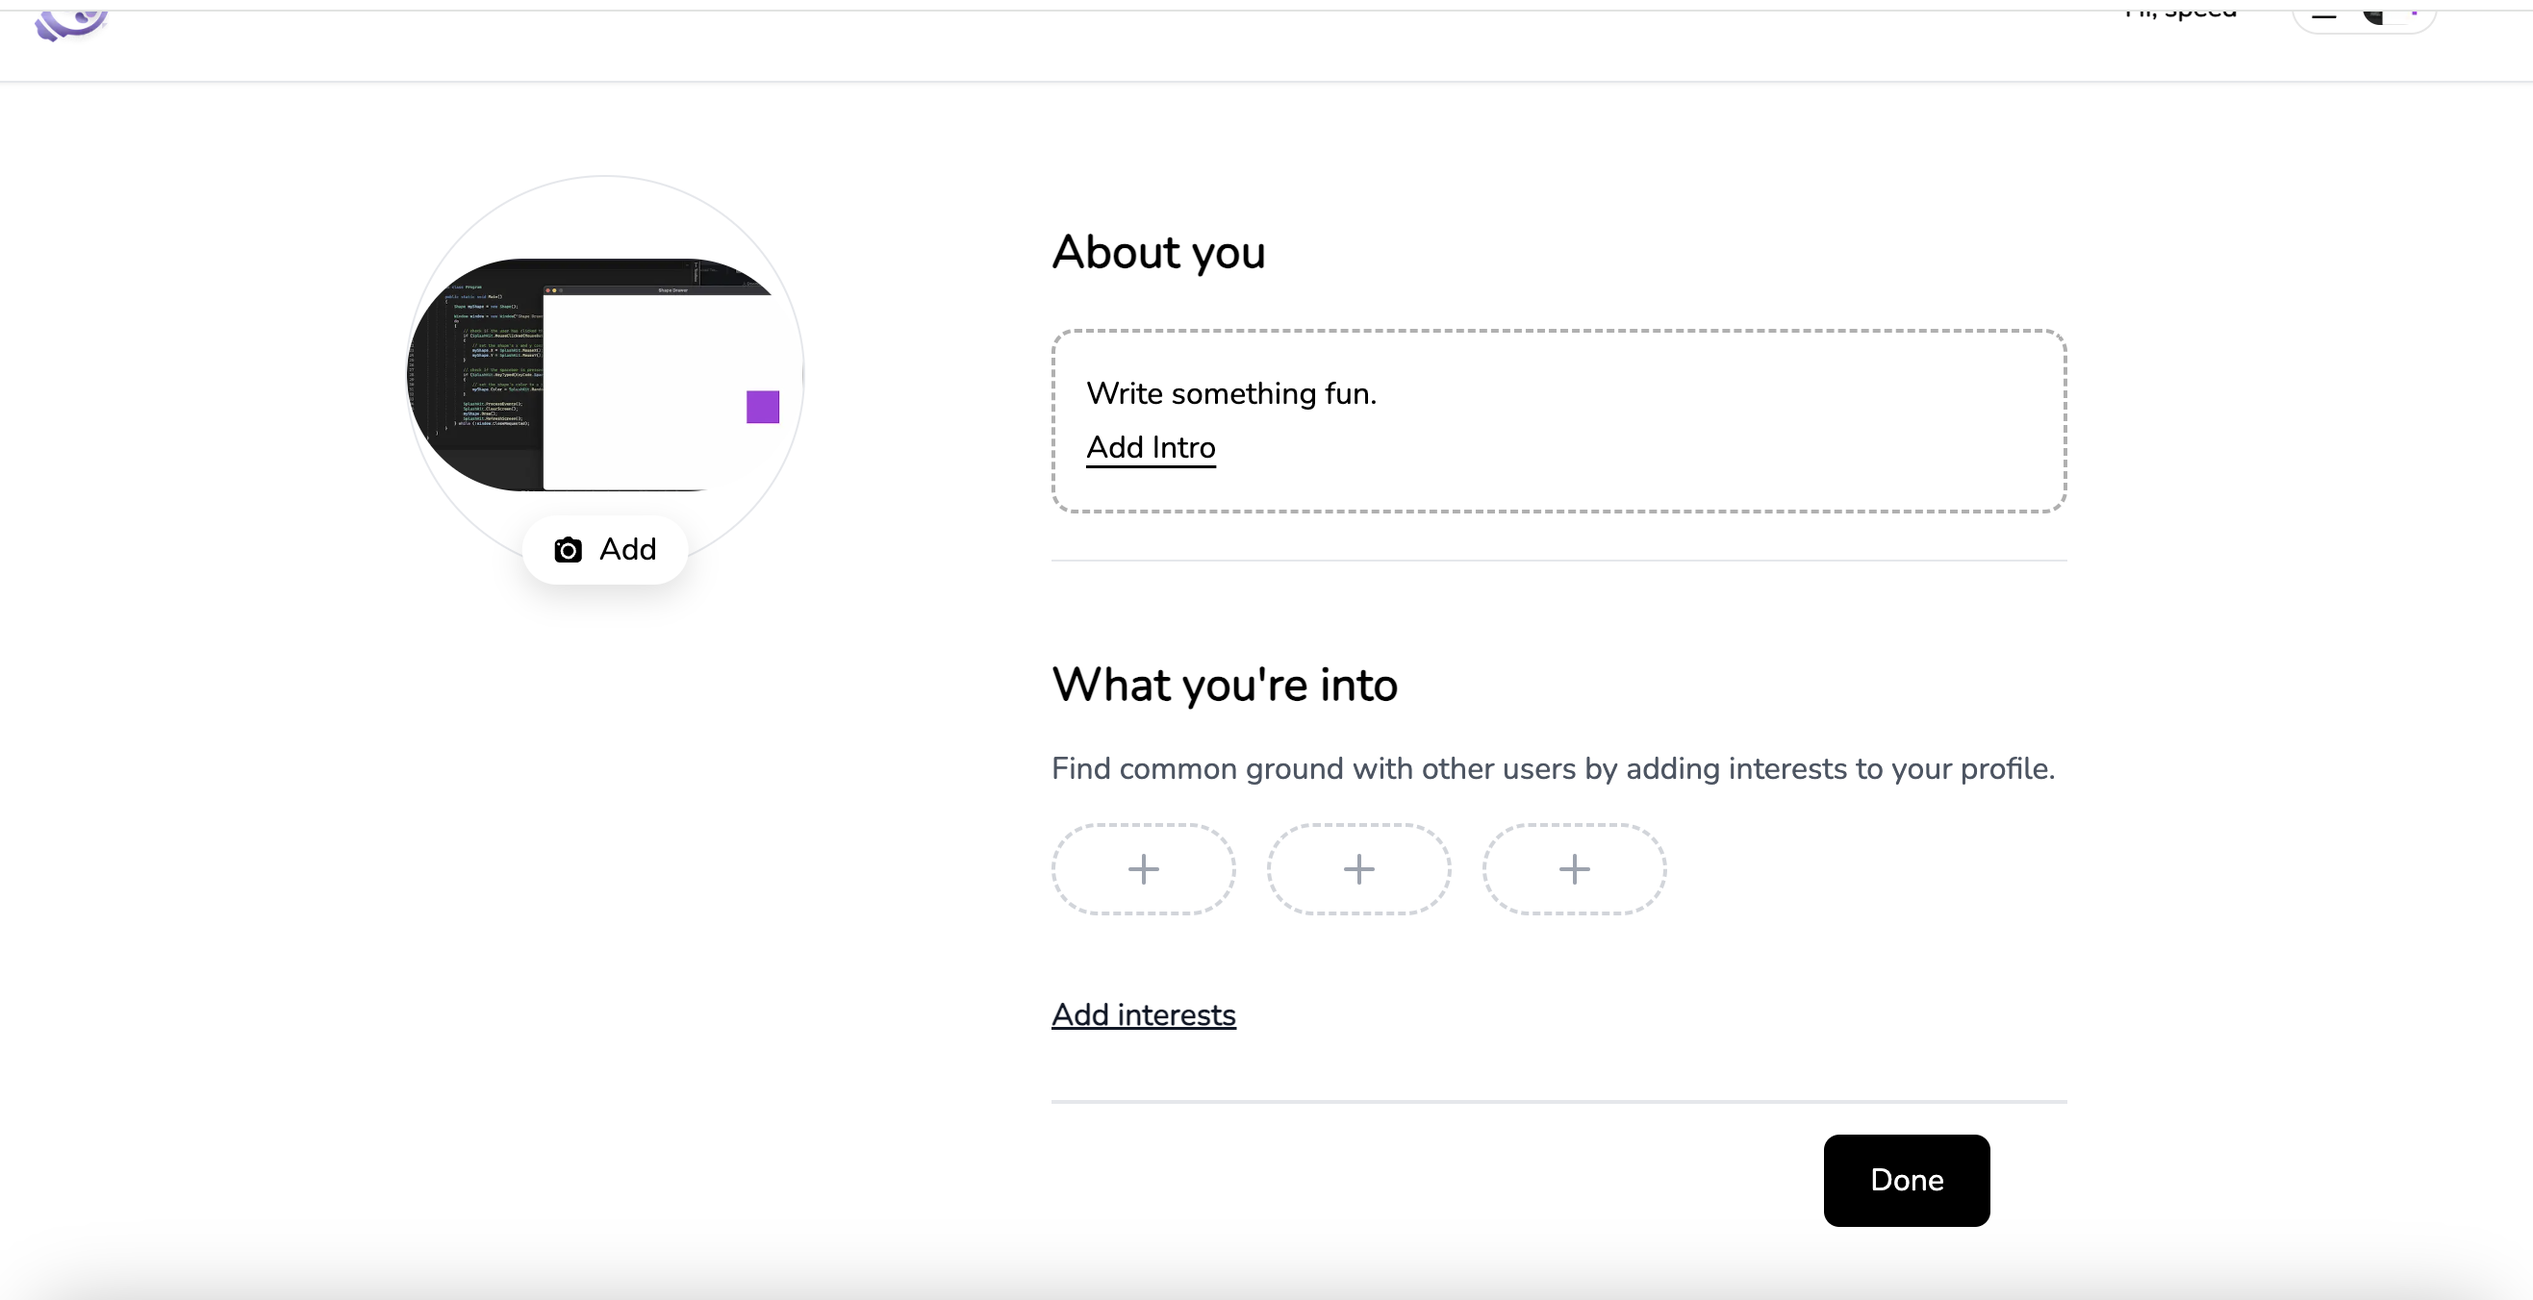
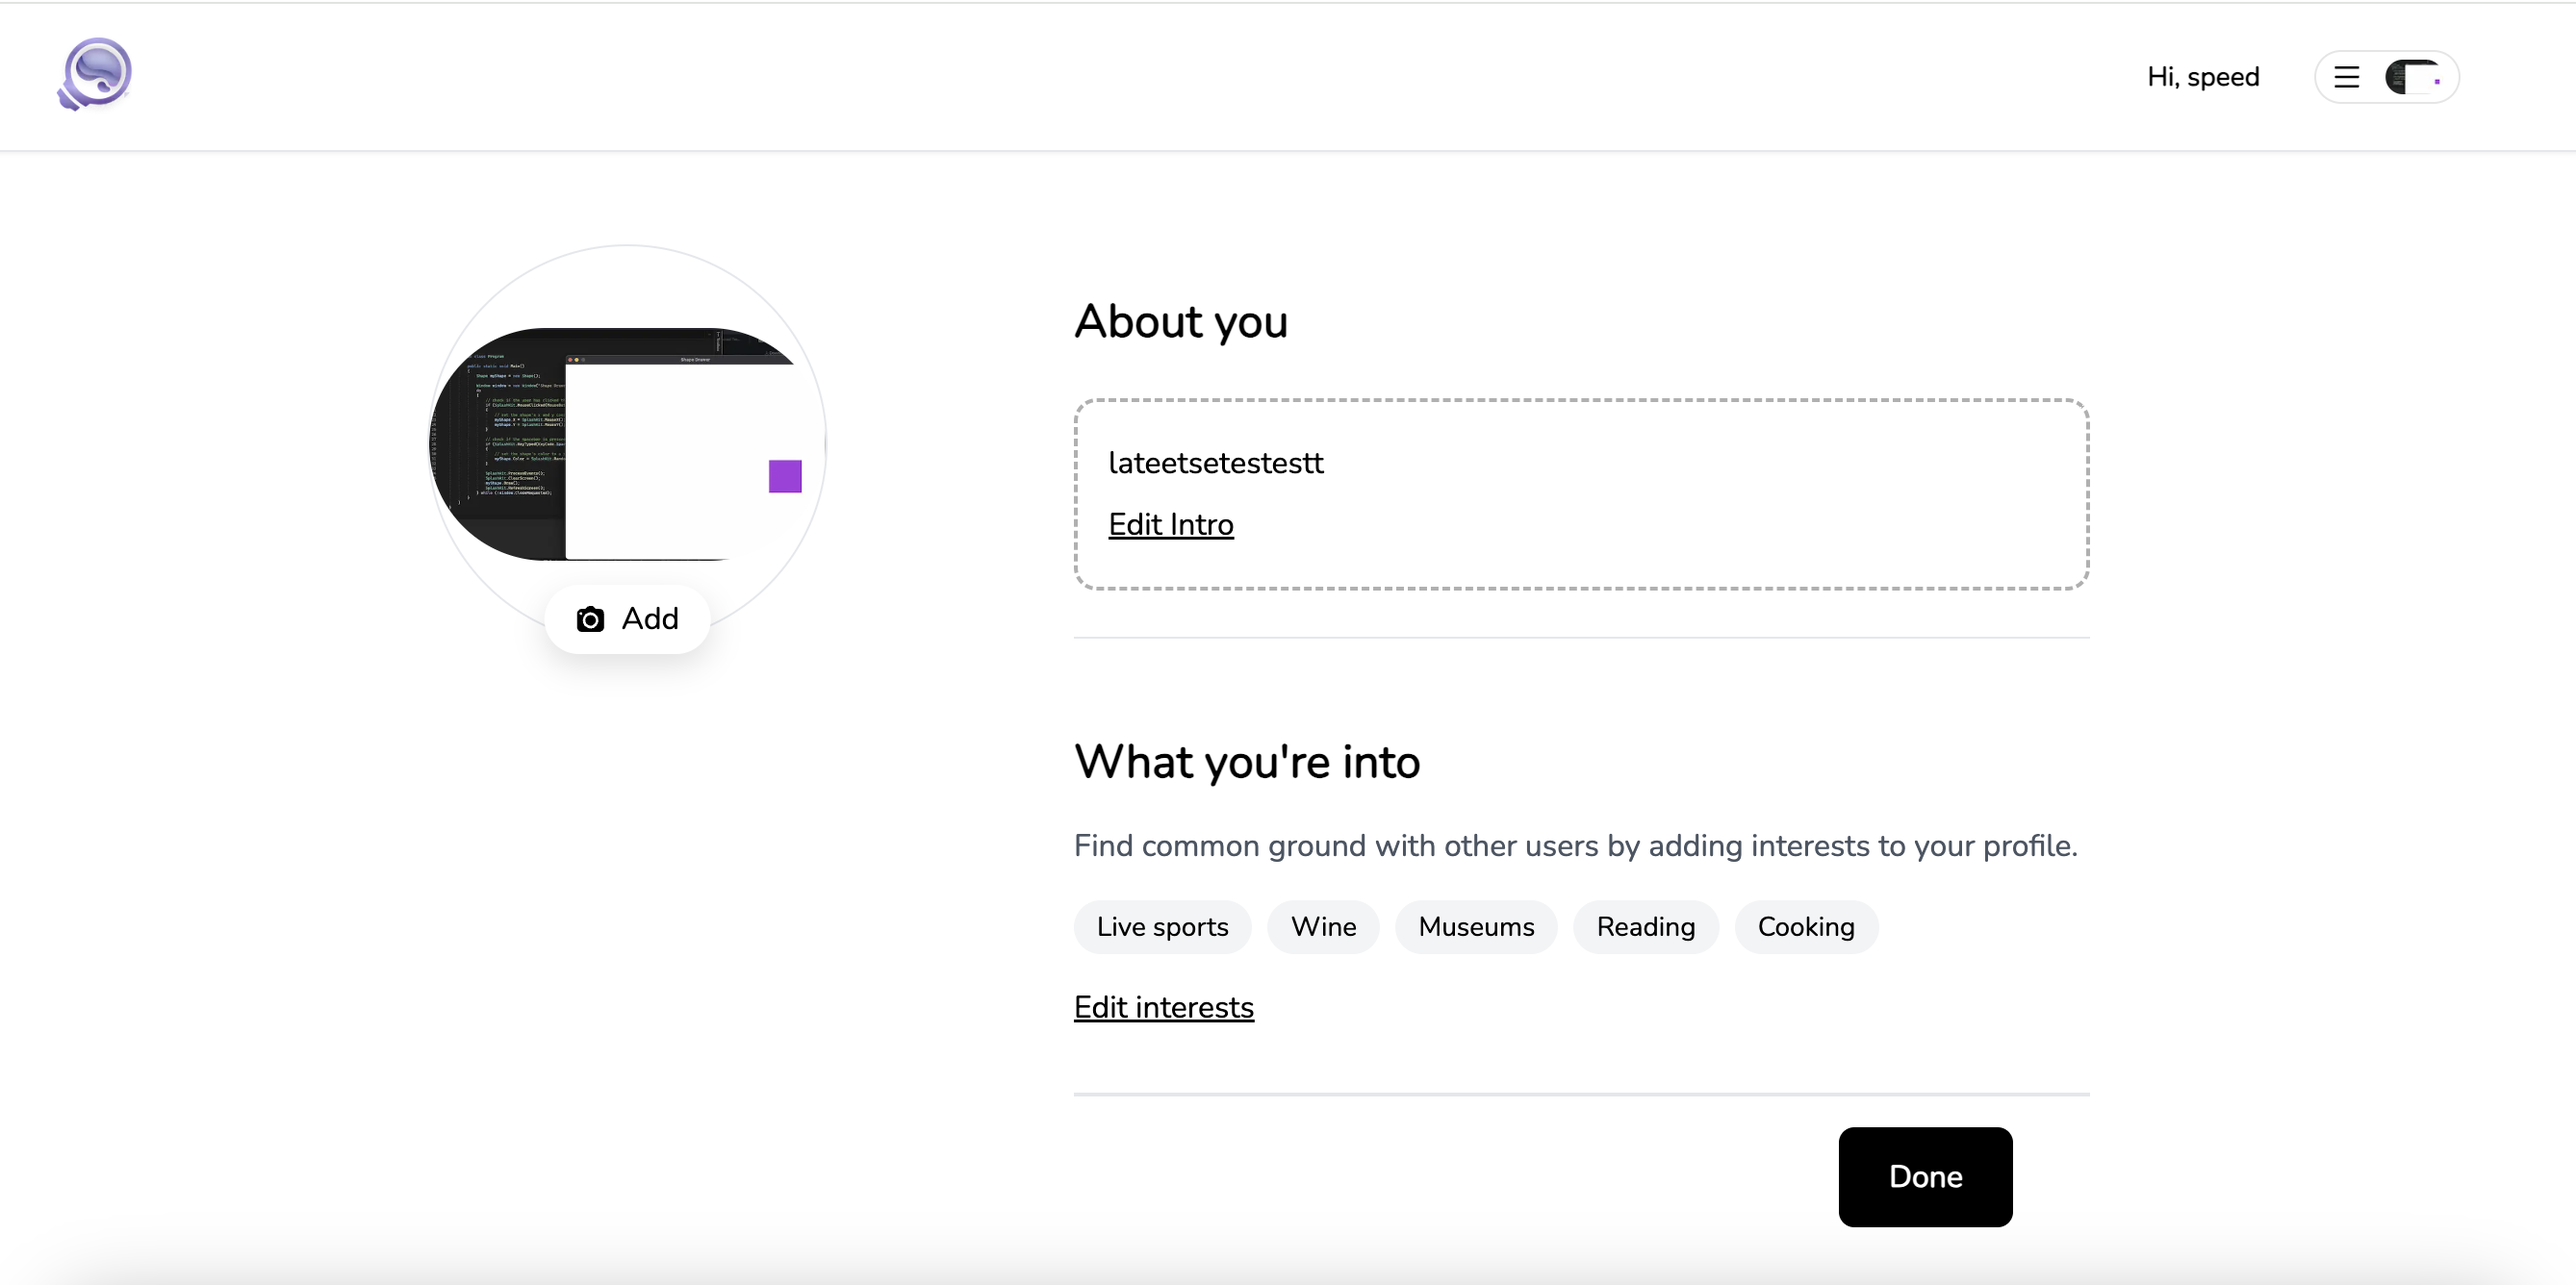
donee

diff --git a/src/pages/users/[id]/index.tsx b/src/pages/users/[id]/index.tsx
@@ -7,21 +7,28 @@ import { PlusIcon } from "lucide-react";
 import AuthCheck from "@/components/AuthCheck";
 import Button from "@/components/Button/Button";
 import useSelectInterestModal from "@/hooks/useSelectInterestModal";
-import { useMutation } from "@/hooks/useMutation";
-import { apiClient } from "@/libs/utils/api-client";
 import { useUser } from "@/hooks/useUser";
-import update from "@/pages/api/profile/update";
 
 export default function EditProfile() {
   const interestModal = useSelectInterestModal();
   const { updateUser, user } = useUser();
-  const [isLoading,setIsLoading] = useState(false);
+  const [isLoading, setIsLoading] = useState(false);
+  const [selectedInterests, setSelectedInterests] = useState<string[]>([]);
   const currentUser = user!;
   const [isFixed, setIsFixed] = useState(true);
   const router = useRouter();
   const { id } = router.query;
-  const [intro, setIntro] = useState(currentUser.bio || "");
+  const [intro, setIntro] = useState("");
   const [isEditing, setIsEditing] = useState(false);
+
+  useEffect(() => {
+    if (currentUser?.bio) {
+      setIntro(currentUser.bio);
+    }
+    if (currentUser?.interests) {
+      setSelectedInterests(currentUser.interests);
+    }
+  }, [currentUser?.bio, currentUser?.interests]);
 
   const handleIntroChange = (e: React.ChangeEvent<HTMLTextAreaElement>) => {
     setIntro(e.target.value);
@@ -29,19 +36,21 @@ export default function EditProfile() {
 
   const handleSaveIntro = async () => {
     try {
-      setIsLoading(true)
+      setIsLoading(true);
       await updateUser({
         bio: intro,
-      });      
+      });
 
       setIsEditing(false);
-      setIsLoading(false)
-
+      setIsLoading(false);
     } catch (error) {
       console.error("Error updating bio:", error);
-      setIsLoading(false)
-
+      setIsLoading(false);
     }
+  };
+
+  const handleEditInterests = () => {
+    interestModal.onOpen();
   };
 
   return (
@@ -59,7 +68,6 @@ export default function EditProfile() {
           <div className="md:ml-12 w-full mt-6 px-7 sm:px-0">
             <section>
               <h1 className="text-2xl font-bold">About you</h1>
-              {intro && <h1>bio{intro}</h1>}
 
               <div className="my-6 px-4 py-5 border-dashed border-2 border-grey rounded-xl overflow-hidden">
                 {!isEditing ? (
@@ -67,7 +75,7 @@ export default function EditProfile() {
                     {intro ? (
                       <>
                         <p>{intro}</p>
-                        <button 
+                        <button
                           onClick={() => setIsEditing(true)}
                           className="mt-2 text-black underline focus:outline-none"
                         >
@@ -77,7 +85,7 @@ export default function EditProfile() {
                     ) : (
                       <>
                         <p>Write something fun.</p>
-                        <button 
+                        <button
                           onClick={() => setIsEditing(true)}
                           className="mt-2 text-black underline focus:outline-none"
                         >
@@ -95,7 +103,7 @@ export default function EditProfile() {
                       className="w-full min-h-[100px] p-2 border-2 border-dashed border-gray-300 rounded-md resize-none focus:outline-none focus:border-black-500 transition-colors duration-200"
                     />
                     <Button
-                    disabled={isLoading}
+                      disabled={isLoading}
                       label="Save Intro"
                       onClick={handleSaveIntro}
                       className="mt-2 px-4 py-2 bg-black w-auto border-none text-white rounded-md focus:outline-none focus:ring-2 focus:ring-black-500 focus:ring-opacity-50 transition-colors duration-200"
@@ -110,20 +118,29 @@ export default function EditProfile() {
                 Find common ground with other users by adding interests to your profile.
               </p>
 
-              <div className="space-y-2">
-                <div className="flex space-x-4">
-                  {[1, 2, 3].map((_, index) => (
-                    <button
-                      key={index}
-                      onClick={()=>{interestModal.onOpen()}}
-                      className="w-24 h-12 mb-8 rounded-full border-2 border-dashed border-gray-300 flex items-center justify-center"
-                    >
-                      <PlusIcon className="h-6 w-6 text-gray-400" />
-                      <span className="sr-only">Add interest</span>
-                    </button>
-                  ))}
-                </div>
-              
+              <div className="space-y-4">
+                {selectedInterests.length > 0 ? (
+                  <div className="flex flex-wrap gap-2">
+                    {selectedInterests.map((interest, index) => (
+                      <span
+                        key={index}
+                        className="px-3 py-1 bg-gray-100 rounded-full text-sm"
+                      >
+                        {interest}
+                      </span>
+                    ))}
+                  </div>
+                ) : (
+                  <p className="text-gray-600">
+                    Add interests to find common ground with other users.
+                  </p>
+                )}
+                <button
+                  onClick={handleEditInterests}
+                  className="text-black underline focus:outline-none"
+                >
+                  Edit interests
+                </button>
               </div>
             </section>
 
@@ -133,8 +150,11 @@ export default function EditProfile() {
               }`}
             >
               <div className="max-w-6xl text-right m-auto">
-                <Button label="Done" onClick={()=>{}} className="px-6 py-3 border-black w-auto bg-black text-white rounded-lg ml-auto"/>
-                  
+                <Button
+                  label="Done"
+                  onClick={() => {}}
+                  className="px-6 py-3 border-black w-auto bg-black text-white rounded-lg ml-auto"
+                />
               </div>
             </div>
           </div>

diff --git a/src/components/Modal/SelectInterestModal.tsx b/src/components/Modal/SelectInterestModal.tsx
@@ -1,11 +1,9 @@
 import Modal from "./Modal";
 import { FieldValues, SubmitHandler, useForm } from "react-hook-form";
-import { useMutation } from "@/hooks/useMutation";
-import { apiClient } from "@/libs/utils/api-client";
-import useSelectInterestModal from "@/hooks/useSelectInterestModal";
-import { useState, useCallback, useMemo } from "react";
+import { useState, useCallback, useMemo, useEffect } from "react";
 import Button from "../Button/Button";
 import { useUser } from "@/hooks/useUser";
+import useSelectInterestModal from "@/hooks/useSelectInterestModal";
 
 const interests = [
   { icon: '🍝', label: 'Food' },
@@ -28,82 +26,97 @@ const interests = [
 
 export default function SelectInterestModal() {
   const SelectInterestModal = useSelectInterestModal();
+  const [isLoading, setIsLoading] = useState(false);
   const [selectedInterests, setSelectedInterests] = useState<string[]>([]);
   const { updateUser, user } = useUser();
 
-  const { trigger, isMutating } = useMutation('/profile/', async (url, payload) => {
-    return await apiClient.post(url, payload);
-  });
+  // Load user interests when component mounts
+  useEffect(() => {
+    if (user?.interests) {
+    setSelectedInterests(user.interests)
+    }
+  }, [user?.interests]);
 
-  // Memoize the toggleInterest function to avoid unnecessary re-renders
   const toggleInterest = useCallback((label: string) => {
-    setSelectedInterests(prev =>
-      prev.includes(label)
-        ? prev.filter(i => i !== label)
-        : [...prev, label]
+    setSelectedInterests((prev) =>
+      prev.includes(label) ? prev.filter((i) => i !== label) : [...prev, label]
     );
   }, []);
 
-  const { handleSubmit, formState: { errors } } = useForm<FieldValues>({
-    defaultValues: {},
+  // Initialize react-hook-form
+  const { handleSubmit } = useForm<FieldValues>({
+    defaultValues: {
+      interests: [],
+    },
   });
 
-  const onSubmit: SubmitHandler<FieldValues> = (data) => {
-    // Handle form submission logic
+  // Handle form submission
+  const onSubmit: SubmitHandler<FieldValues> = async () => {
+    setIsLoading(true);
+    try {
+      await updateUser({ interests: selectedInterests });
+      setIsLoading(false);
+      SelectInterestModal.onClose(); // Close modal on success
+    } catch (error) {
+      console.error("Failed to update interests", error);
+      setIsLoading(false);
+    }
   };
 
-  const bodyContent = useMemo(() => (
-    <div className="flex flex-col gap-4">
-      <div className="text-left">
-        <div className="font-light text-neutral-500 mt-3">
-          Pick some interests you enjoy that you want to show on your profile.
+  const bodyContent = useMemo(
+    () => (
+      <div className="flex flex-col gap-4">
+        <div className="text-left">
+          <div className="font-light text-neutral-500 mt-3">
+            Pick some interests you enjoy that you want to show on your profile.
+          </div>
+        </div>
+        <div className="grid grid-cols-2 md:grid-cols-3 gap-3 mb-4">
+          {interests.map(({ icon, label }) => (
+            <button
+              key={label}
+              onClick={() => toggleInterest(label)}
+              className={`flex items-center px-3 py-2 rounded-full border ${
+                selectedInterests.includes(label)
+                  ? "bg-blue-100 border-blue-500"
+                  : "border-gray-300 hover:border-blue-500"
+              }`}
+            >
+              <span className="mr-2">{icon}</span>
+              {label}
+            </button>
+          ))}
         </div>
       </div>
+    ),
+    [selectedInterests, toggleInterest]
+  );
 
-      <div className="grid grid-cols-3 gap-3 mb-4">
-        {interests.map(({ icon, label }) => (
-          <button
-            key={label}
-            onClick={() => toggleInterest(label)}
-            className={`flex items-center px-3 py-2 rounded-full border ${
-              selectedInterests.includes(label)
-                ? 'bg-blue-100 border-blue-500'
-                : 'border-gray-300 hover:border-blue-500'
-            }`}
-          >
-            <span className="mr-2">{icon}</span>
-            {label}
-          </button>
-        ))}
+  const footerContent = useMemo(
+    () => (
+      <div className="flex flex-col gap-4">
+        <div className="flex justify-between items-center">
+          <p className="text-gray-600">{`${selectedInterests.length}/${interests.length} selected`}</p>
+          <Button
+            label="Continue"
+            onClick={handleSubmit(onSubmit)}
+            className="w-auto px-4"
+            disabled={isLoading}
+          />
+        </div>
       </div>
-    </div>
-  ), [selectedInterests, toggleInterest]);
-
-  const footerContent = useMemo(() => (
-    <div className="flex flex-col gap-4">
-      <div className="flex justify-between items-center">
-        <p className="text-gray-600">
-          {`${selectedInterests.length}/${interests.length} selected`}
-        </p>
-        <Button
-        label="Continue"
-          onClick={handleSubmit(onSubmit)}
-          className="w-auto px-4"
-          disabled={isMutating}
-        />
-        
-      </div>
-    </div>
-  ), [selectedInterests, handleSubmit, onSubmit, isMutating]);
+    ),
+    [selectedInterests, handleSubmit, onSubmit, isLoading]
+  );
 
   return (
     <Modal
-      disabled={isMutating}
+      disabled={isLoading}
       isOpen={SelectInterestModal.isOpen}
       title="What You're Into"
       actionLabel="Continue"
       onClose={SelectInterestModal.onClose}
-      onSubmit={() => {}}
+      onSubmit={handleSubmit(onSubmit)} // Submit when form is submitted
       body={bodyContent}
       footer={footerContent}
     />

diff --git a/src/pages/api/auth/[...nextauth].ts b/src/pages/api/auth/[...nextauth].ts
@@ -65,10 +65,10 @@ export const authOptions: AuthOptions = {
 
       if (trigger === "update" && session?.user) {
         const tokenUser = token.user as CurrentUser;
-        const { avatarUrl, balance,bio } = session.user;
+        const { avatarUrl, balance,bio,interests } = session.user;
         console.log("testdlu",bio)
 
-        const updateData: Partial<{ avatarUrl: string; balance: number,bio:string }> = {};
+        const updateData: Partial<{ avatarUrl: string; balance: number,bio:string,interests:string[] }> = {};
 
         if (avatarUrl) {
           updateData.avatarUrl = avatarUrl;
@@ -81,6 +81,10 @@ export const authOptions: AuthOptions = {
         if(bio !=undefined){
           console.log("caleld?")
           updateData.bio = bio
+        }
+
+        if(interests){
+          updateData.interests = interests
         }
 
         await prisma.user.update({

diff --git a/src/hooks/useUser.tsx b/src/hooks/useUser.tsx
@@ -8,6 +8,7 @@ type UpdateUserArgs = {
     username?: string
     balance? : number
     bio?: string
+    interests?: string[]
 }
   
 
@@ -53,6 +54,7 @@ export function useUser() {
         createdAt: user?.createdAt,
         balance : user?.balance,
         bio: user?.bio,
+        interests: user?.interests
       } as CurrentUser,
       status,
       updateUser: async (args: UpdateUserArgs) => {

diff --git a/README.md b/README.md
@@ -81,3 +81,7 @@ The app is a movie browsing platform that includes the following features:
 ### Profile Screen
 
 ![Profile Screen](./public/screenshots/ss6.png)
+
+### Choose Interest Screen
+
+![Choose Interest Screen](./public/screenshots/ss7.png)
